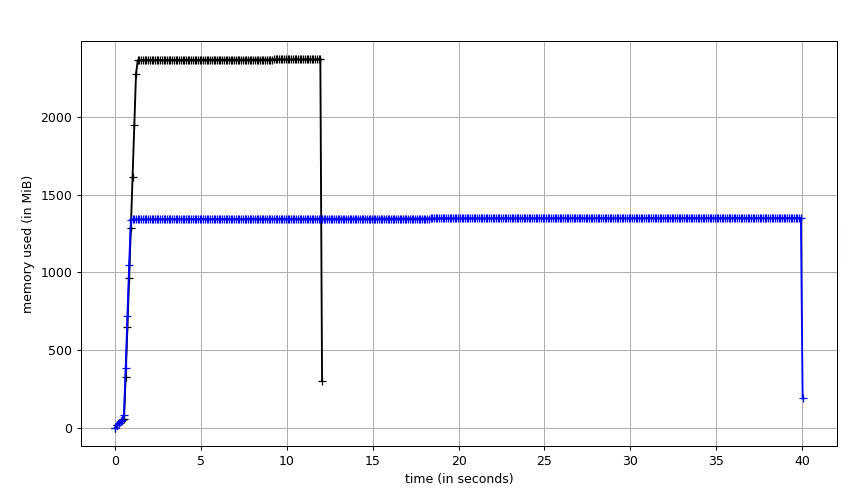
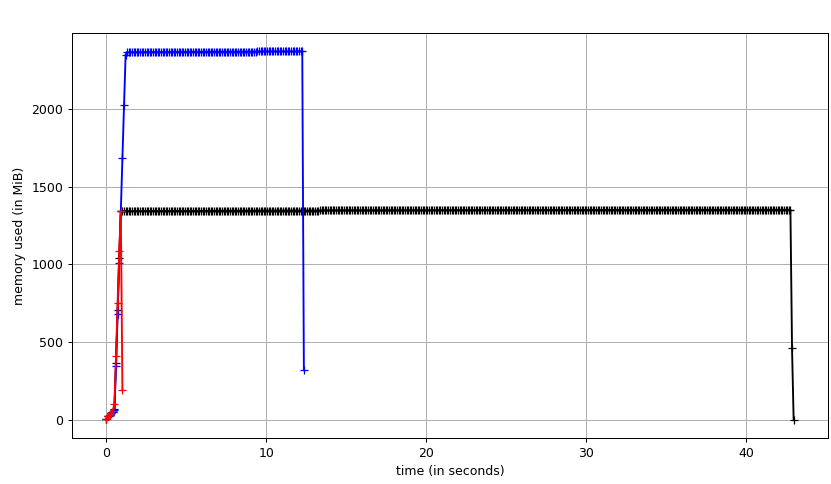
docs: update benchmark with A*

Changed region(s): [[0.0, 0.062, 1.0, 0.9917], [0.0602, 0.6818, 0.0903, 0.7438]]

diff --git a/README.md b/README.md
@@ -115,13 +115,13 @@ python setup.py develop
 
 ## Performance
 
-I ran the algorithm on a field of ones from the bottom left corner to the top right corner of a 512x512x512 int8 image using a 3.7 GHz Intel i7-4920K CPU. Unidirectional search takes about 39.5 seconds (3.4 MVx/sec) with a maximum memory usage of about 1300 MB. In the unidirectional case, this test forces the algorithm to process nearly all of the volume (dijkstra aborts early when the target is found). In the bidirectional case, the volume is processed in about 11.5 seconds (11.7 MVx/sec) with a peak memory usage of about 2300 MB.
+I ran three algorithms on a field of ones from the bottom left corner to the top right corner of a 512x512x512 int8 image using a 3.7 GHz Intel i7-4920K CPU. Unidirectional search takes about 42 seconds (3.2 MVx/sec) with a maximum memory usage of about 1300 MB. In the unidirectional case, this test forces the algorithm to process nearly all of the volume (dijkstra aborts early when the target is found). In the bidirectional case, the volume is processed in about 11.8 seconds (11.3 MVx/sec) with a peak memory usage of about 2300 MB. The A* version processes the volume in 0.5 seconds (268.4 MVx/sec) with an identical memory profile to unidirectional search. A* works very well in this simple case, but may not be superior in all configurations.
 
 Theoretical unidirectional memory allocation breakdown: 128 MB source image, 512 MB distance field, 512 MB parents field (1152 MB). Theoretical bidirectional memory allocation breakdown: 128 MB source image, 2x 512 distance field, 2x 512 MB parental field (2176 MB).
 
 <p style="font-style: italics;" align="center">
-<img height=384 src="https://raw.githubusercontent.com/seung-lab/dijkstra3d/master/dijkstra3d.png" alt="Fig. 1: A benchmark of dijkstra.dijkstra run on a 512^3 voxel field of ones from bottom left source to top right target. (black) bidirectional search (blue) unidirectional search." /><br>
-Fig. 1: A benchmark of dijkstra.dijkstra run on a 512<sup>3</sup> voxel field of ones from bottom left source to top right target. (black) bidirectional search (blue) unidirectional search.
+<img height=384 src="https://raw.githubusercontent.com/seung-lab/dijkstra3d/master/dijkstra3d.png" alt="Fig. 1: A benchmark of dijkstra.dijkstra run on a 512<sup>3</sup> voxel field of ones from bottom left source to top right target. (black) unidirectional search (blue) bidirectional search (red) A* search aka compass=True." /><br>
+Fig. 1: A benchmark of dijkstra.dijkstra run on a 512<sup>3</sup> voxel field of ones from bottom left source to top right target. (black) unidirectional search (blue) bidirectional search (red) A* search aka <code>compass=True</code>.
 </p>
 
 ```python 
@@ -130,10 +130,12 @@ import time
 import dijkstra3d
 
 field = np.ones((512,512,512), order='F', dtype=np.int8)
+source = (0,0,0)
+target = (511,511,511)
 
-s = time.time()
-path = dijkstra3d.dijkstra(x, source=(0,0,0), target=(511, 511, 511), bidirectional=True) # or False 
-print(time.time() - s)
+path = dijkstra3d.dijkstra(field, source, target) # black line
+path = dijkstra3d.dijkstra(field, source, target, bidirectional=True) # blue line
+path = dijkstra3d.dijkstra(field, source, target, compass=True) # red line
 ```
 
 
